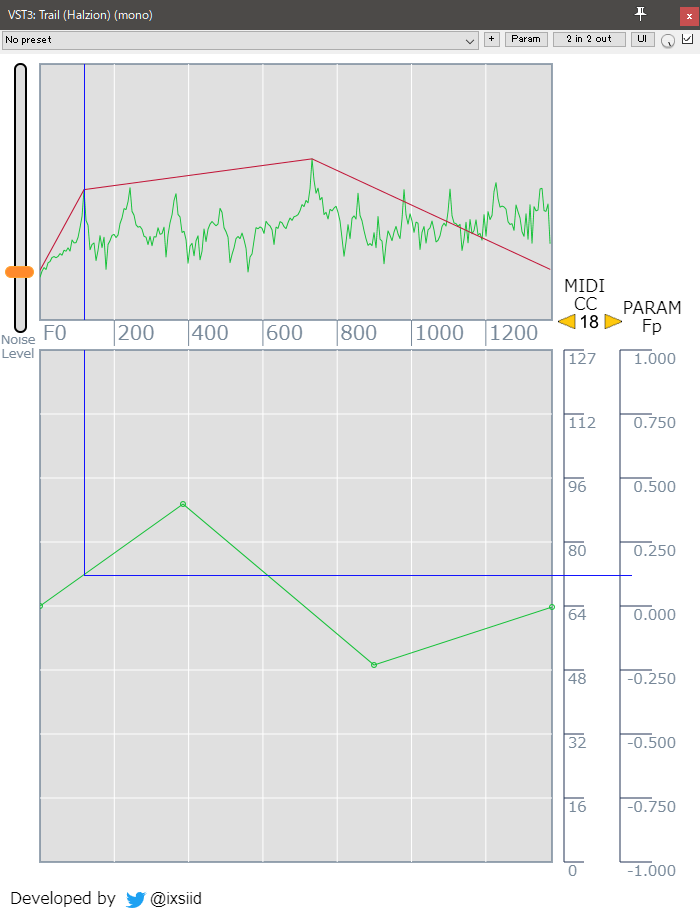
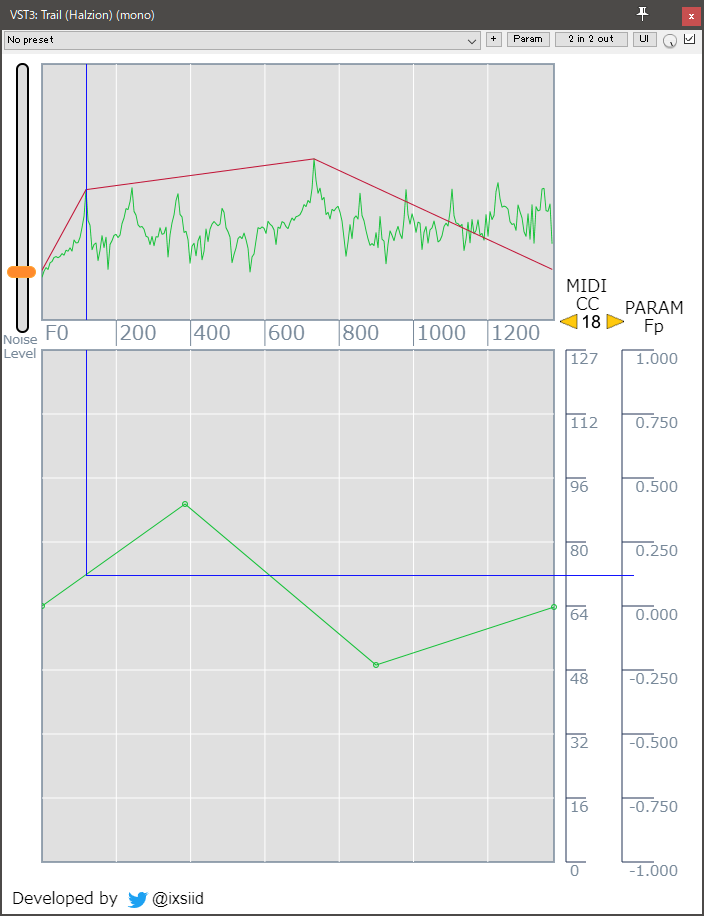
readme

diff --git a/Readme.md b/Readme.md
@@ -12,7 +12,7 @@ Fxとして読み込むと次のようなGUIが表示されます。
 
 上の波形は入力音声のスペクトルを表しています。
 
-左上の黄色いスライダーでノイズレベルを調整してください。
+左上のオレンジ色のスライダーでノイズレベルを調整してください。
 スクリーンショットのように、音声ピークの最も低周波が認識されてれいば適切です。
 
 下の折れ線グラフは、F0値[Hz]をサイドチェイン用パラメータへの変換関数を表しています。
@@ -22,6 +22,13 @@ Fxとして読み込むと次のようなGUIが表示されます。
 折れ線のポイントはダブルクリックで追加、右クリックで削除できます。
 各ポイントはドラッグ操作によって動かすことができます。
 
+
+MIDI CC値の出力チャンネルは1で固定ですが、出力コントロール番号は画面右の黄色の左右ボタンにて変更できます。
+
+
+###### 補足事項
+* MIDI CCは旧システムとの互換用です。サイドチェイン操作そとしてはパラメータ値Fpを用いるほうが適切です。
+* プラグイン単体の機能としては、各パラメータは自動保存されません。DAW側で保存操作を行ってください。(N敗)
 
 # Deploy
 
